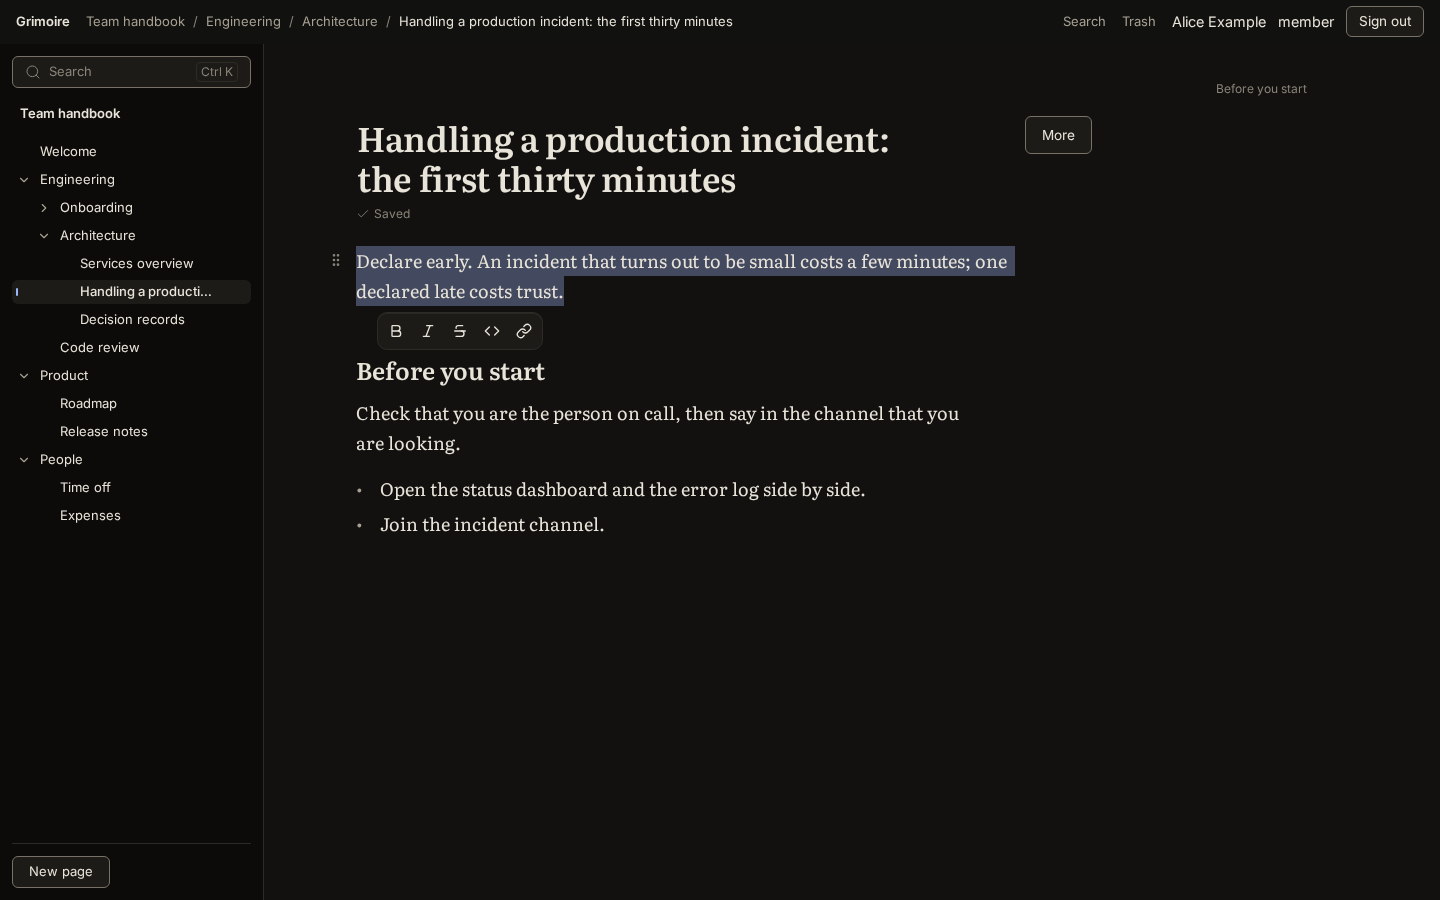
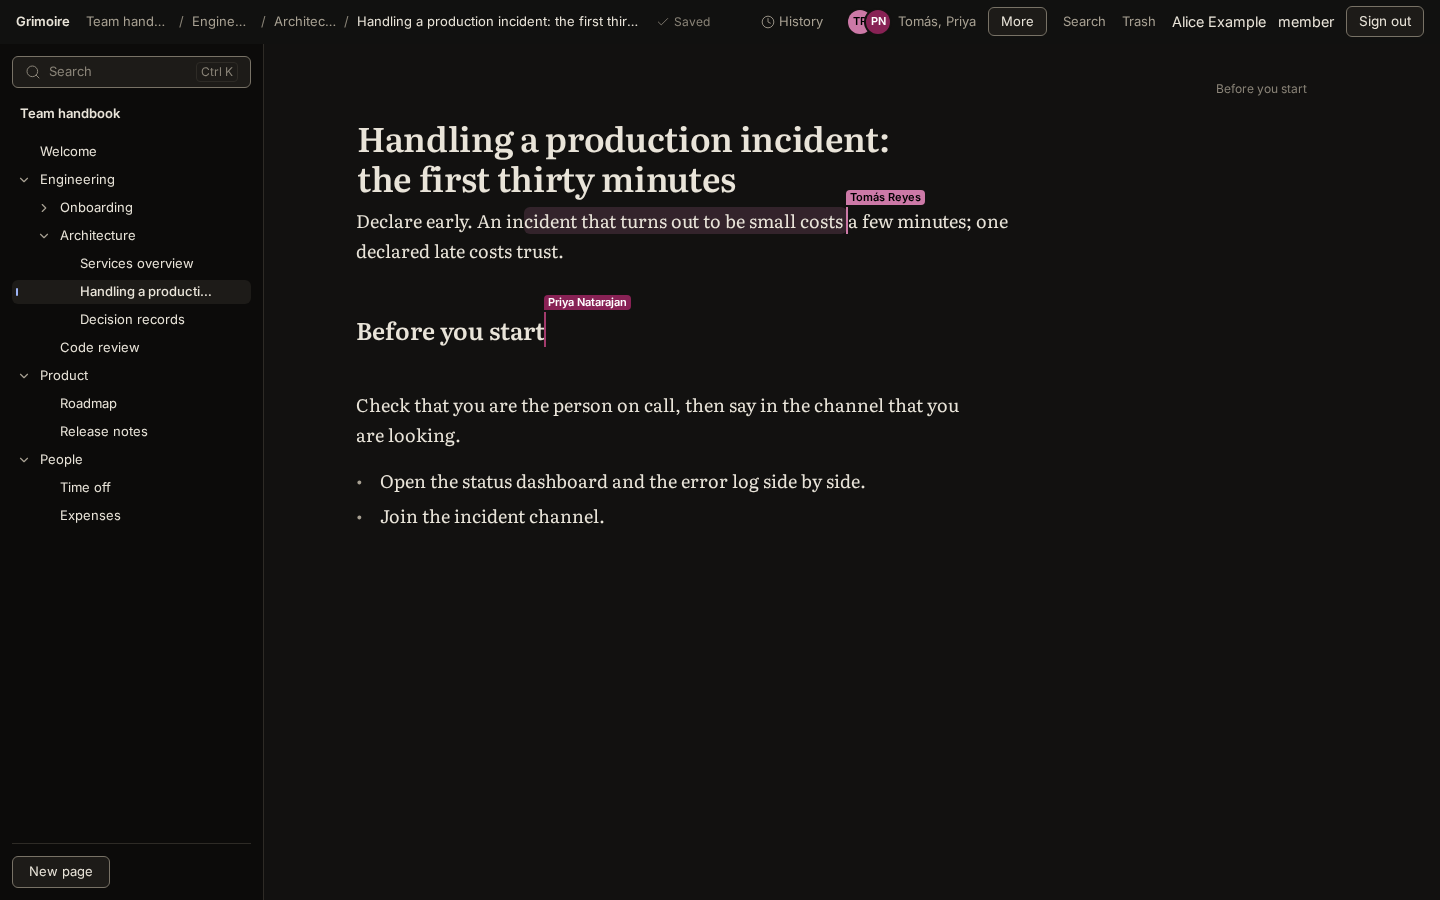
feat(web): page controls in the top bar: save status, presence, History, page menu
A slot in the shell header takes the open page's controls (portal; the page keeps them inline where there is no bar, and the save status keeps its own line on phones). The top bar's a11y status read scopes to .page-status now that presence adds a second status region; the only other role=status locator is on the history screen, which has no presence. Screenshots re-taken with two collaborators.

diff --git a/apps/web/src/app/Shell.tsx b/apps/web/src/app/Shell.tsx
@@ -1,24 +1,29 @@
-import { useEffect, useState } from 'react';
-import { Ellipsis, PanelLeft } from 'lucide-react';
-import { Link, Outlet, useLocation } from 'react-router';
-import { UserBadge } from '../auth/UserBadge';
-import { AdminLink } from './AdminLink';
-import { Breadcrumb } from './Breadcrumb';
-import { Palette } from '../palette/Palette';
-import { useSession } from '../auth/session';
-import { ContentsPanel } from '../tree/ContentsPanel';
-import { inPageHref } from '../ui/inpage';
-import { ErrorBoundary } from './ErrorBoundary';
-import { screenKey } from './routes';
+import { useEffect, useState } from "react";
+import { Ellipsis, PanelLeft } from "lucide-react";
+import { Link, Outlet, useLocation } from "react-router";
+import { UserBadge } from "../auth/UserBadge";
+import { AdminLink } from "./AdminLink";
+import { Breadcrumb } from "./Breadcrumb";
+import { PageControlsProvider, PageControlsSlot } from "./page-controls";
+import { Palette } from "../palette/Palette";
+import { useSession } from "../auth/session";
+import { ContentsPanel } from "../tree/ContentsPanel";
+import { inPageHref } from "../ui/inpage";
+import { ErrorBoundary } from "./ErrorBoundary";
+import { screenKey } from "./routes";
 
 /** True once the page has scrolled: the top bar then gets its hairline. */
 function useScrolled(): boolean {
   const [scrolled, setScrolled] = useState(false);
   useEffect(() => {
-    const update = (): void => { setScrolled(window.scrollY > 0); };
+    const update = (): void => {
+      setScrolled(window.scrollY > 0);
+    };
     update();
-    window.addEventListener('scroll', update, { passive: true });
-    return () => { window.removeEventListener('scroll', update); };
+    window.addEventListener("scroll", update, { passive: true });
+    return () => {
+      window.removeEventListener("scroll", update);
+    };
   }, []);
   return scrolled;
 }
@@ -31,40 +36,82 @@ export function Shell() {
   // On a phone the contents are behind a button; a new screen closes them.
   const [contentsOpen, setContentsOpen] = useState(false);
   const [actionsOpen, setActionsOpen] = useState(false);
-  useEffect(() => { setContentsOpen(false); setActionsOpen(false); }, [pathname]);
+  useEffect(() => {
+    setContentsOpen(false);
+    setActionsOpen(false);
+  }, [pathname]);
   return (
-    <div className="shell">
-      <a className="skip-link" href={inPageHref(pathname, search, 'main')}>
-        Skip to the page
-      </a>
-      <header className="shell-header" data-scrolled={scrolled || undefined}>
-        <button type="button" className="shell-contents-toggle" aria-controls="shell-contents" aria-expanded={contentsOpen} aria-label={contentsOpen ? 'Hide contents' : 'Show contents'} title={contentsOpen ? 'Hide contents' : 'Show contents'} onClick={() => { setContentsOpen((open) => !open); }}>
-          <PanelLeft aria-hidden size={16} strokeWidth={1.5} />
-        </button>
-        <Link to="/" className="shell-brand">Grimoire</Link>
-        <Breadcrumb />
-        <button type="button" className="shell-actions-toggle" aria-controls="shell-actions" aria-expanded={actionsOpen} aria-label={actionsOpen ? 'Hide menu' : 'Show menu'} title={actionsOpen ? 'Hide menu' : 'Show menu'} onClick={() => { setActionsOpen((open) => !open); }}>
-          <Ellipsis aria-hidden size={16} strokeWidth={1.5} />
-        </button>
-        {/* On a phone these sit behind the button above: one compact bar, and the breadcrumb under it. */}
-        <div className="shell-actions" id="shell-actions" data-open={actionsOpen || undefined}>
-          <nav aria-label="Main">
-            <Link to="/search">Search</Link> <Link to="/trash">Trash</Link> <AdminLink />
-          </nav>
-          <UserBadge />
+    <PageControlsProvider>
+      <div className="shell">
+        <a className="skip-link" href={inPageHref(pathname, search, "main")}>
+          Skip to the page
+        </a>
+        <header className="shell-header" data-scrolled={scrolled || undefined}>
+          <button
+            type="button"
+            className="shell-contents-toggle"
+            aria-controls="shell-contents"
+            aria-expanded={contentsOpen}
+            aria-label={contentsOpen ? "Hide contents" : "Show contents"}
+            title={contentsOpen ? "Hide contents" : "Show contents"}
+            onClick={() => {
+              setContentsOpen((open) => !open);
+            }}
+          >
+            <PanelLeft aria-hidden size={16} strokeWidth={1.5} />
+          </button>
+          <Link to="/" className="shell-brand">
+            Grimoire
+          </Link>
+          <Breadcrumb />
+          <PageControlsSlot />
+          <button
+            type="button"
+            className="shell-actions-toggle"
+            aria-controls="shell-actions"
+            aria-expanded={actionsOpen}
+            aria-label={actionsOpen ? "Hide menu" : "Show menu"}
+            title={actionsOpen ? "Hide menu" : "Show menu"}
+            onClick={() => {
+              setActionsOpen((open) => !open);
+            }}
+          >
+            <Ellipsis aria-hidden size={16} strokeWidth={1.5} />
+          </button>
+          {/* On a phone these sit behind the button above: one compact bar, and the breadcrumb under it. */}
+          <div
+            className="shell-actions"
+            id="shell-actions"
+            data-open={actionsOpen || undefined}
+          >
+            <nav aria-label="Main">
+              <Link to="/search">Search</Link> <Link to="/trash">Trash</Link>{" "}
+              <AdminLink />
+            </nav>
+            <UserBadge />
+          </div>
+        </header>
+        <Palette />
+        <div className="shell-body">
+          <aside
+            className="shell-contents"
+            id="shell-contents"
+            aria-label="Contents"
+            data-open={contentsOpen || undefined}
+          >
+            {session === null ? (
+              <p>Contents</p>
+            ) : (
+              <ContentsPanel api={session.api} />
+            )}
+          </aside>
+          <main className="shell-main" id="main" tabIndex={-1}>
+            <ErrorBoundary key={screenKey(pathname)}>
+              <Outlet />
+            </ErrorBoundary>
+          </main>
         </div>
-      </header>
-      <Palette />
-      <div className="shell-body">
-        <aside className="shell-contents" id="shell-contents" aria-label="Contents" data-open={contentsOpen || undefined}>
-          {session === null ? <p>Contents</p> : <ContentsPanel api={session.api} />}
-        </aside>
-        <main className="shell-main" id="main" tabIndex={-1}>
-          <ErrorBoundary key={screenKey(pathname)}>
-            <Outlet />
-          </ErrorBoundary>
-        </main>
       </div>
-    </div>
+    </PageControlsProvider>
   );
 }

diff --git a/apps/web/src/screens/page/PageView.tsx b/apps/web/src/screens/page/PageView.tsx
@@ -1,6 +1,8 @@
 import { useContext, useEffect, useRef, useState } from 'react';
 import { UNSAFE_DataRouterContext, useLocation, useNavigate } from 'react-router';
 import { urlIdOf } from '../../app/routes';
+import { InBar, useBarRoom } from '../../app/page-controls';
+import { Clock } from 'lucide-react';
 import { pagePath } from '../../tree/model';
 import { ConnectionManager, type ConnectionState } from '../../editor/core/connection';
 import type { MountedEditor } from '../../editor/core/mount';
@@ -70,6 +72,7 @@ export function PageView({ page, engine = realEngine, onReplaced }: { page: Page
   const moreRef = useRef<HTMLButtonElement>(null);
   const meRef = useRef<string | null>(null);
   meRef.current = me.data?.id ?? null;
+  const barRoom = useBarRoom();
   const presence = usePresence(presenceSource, me.data?.id ?? null);
   const permissionRef = useRef(permissionReadOnly);
   permissionRef.current = permissionReadOnly;
@@ -269,16 +272,32 @@ export function PageView({ page, engine = realEngine, onReplaced }: { page: Page
   // The server says the page is not there any more (removed while it was open): the not-found screen, with the editor out of sight and nothing more sent.
   if (state.stopped === 'not-found') return <PageNotFound />;
 
+  const status = <StatusLine state={{ ...state, readOnly }} collab={collab} onRetry={() => managerRef.current?.retry()} />;
+
   return (
     <div className="page-layout">
       <article className="page">
+        {/* First, so that in the top bar the status comes before presence and the menus. */}
+        <InBar barOnly show={barRoom}>
+          {status}
+        </InBar>
         <header className="page-head">
           <PageTitle title={page.title} editable={!readOnly && session !== null} startEditing={newPageRef.current} onSave={saveTitle} />
           {readOnly ? <span className="page-readonly">Read only</span> : null}
-          <PresenceStack people={presence.people} onJump={(id) => jumpTo(rootRef.current, id)} />
-          <PageMenu triggerRef={moreRef} onHistory={() => navigate(`${pagePath(page.title, page.urlId)}/history`)} onReset={me.data?.role === 'admin' && session !== null ? () => setResetOpen(true) : undefined} />
+          <InBar>
+            <PresenceStack people={presence.people} onJump={(id) => jumpTo(rootRef.current, id)} />
+            <InBar barOnly show={barRoom}>
+              <button type="button" className="page-history" onClick={() => navigate(`${pagePath(page.title, page.urlId)}/history`)}>
+                <Clock aria-hidden size={14} strokeWidth={1.5} />
+                History
+              </button>
+            </InBar>
+            <PageMenu triggerRef={moreRef} onHistory={() => navigate(`${pagePath(page.title, page.urlId)}/history`)} onReset={me.data?.role === 'admin' && session !== null ? () => setResetOpen(true) : undefined} />
+          </InBar>
         </header>
-        <StatusLine state={{ ...state, readOnly }} collab={collab} onRetry={() => managerRef.current?.retry()} />
+        <InBar fallbackOnly show={barRoom}>
+          {status}
+        </InBar>
         {presenceSource !== null ? <PresenceAnnouncer text={presence.announcement} /> : null}
         {state.copy !== null ? <ResetNotice key={state.copy} copy={state.copy} title={page.title} onDismiss={() => managerRef.current?.dismissCopy()} /> : null}
         {state.banner !== null ? <p className="page-banner">{state.banner}</p> : null}

diff --git a/apps/web/test/app/page-controls.test.tsx b/apps/web/test/app/page-controls.test.tsx
@@ -1,0 +1,52 @@
+import { cleanup, render, screen } from '@testing-library/react';
+import { afterEach, describe, expect, it } from 'vitest';
+import { InBar, PageControlsProvider, PageControlsSlot } from '../../src/app/page-controls';
+import '../support/dom';
+
+afterEach(cleanup);
+
+const bar = (): HTMLElement => document.querySelector('.shell-page-controls')!;
+
+describe('the top bar slot for a page`s controls', () => {
+  it('puts a control in the bar when there is one and it has room, and in the page when it has not', () => {
+    const view = render(
+      <PageControlsProvider>
+        <PageControlsSlot />
+        <main data-testid="page">
+          <InBar show><button>Menu</button></InBar>
+          <InBar show={false}><button>Status</button></InBar>
+        </main>
+      </PageControlsProvider>,
+    );
+    expect(bar().contains(screen.getByRole('button', { name: 'Menu' }))).toBe(true);
+    expect(screen.getByTestId('page').contains(screen.getByRole('button', { name: 'Status' }))).toBe(true);
+    view.unmount();
+  });
+
+  it('keeps a bar-only control out of the page, and a fallback-only one out of the bar', () => {
+    render(
+      <PageControlsProvider>
+        <PageControlsSlot />
+        <main data-testid="page">
+          <InBar barOnly show={false}><button>History</button></InBar>
+          <InBar fallbackOnly show><button>Inline status</button></InBar>
+          <InBar fallbackOnly show={false}><button>Phone status</button></InBar>
+        </main>
+      </PageControlsProvider>,
+    );
+    expect(screen.queryByRole('button', { name: 'History' })).toBeNull();
+    expect(screen.queryByRole('button', { name: 'Inline status' })).toBeNull();
+    expect(screen.getByTestId('page').contains(screen.getByRole('button', { name: 'Phone status' }))).toBe(true);
+  });
+
+  it('without a bar everything stays where the page put it, except what only the bar shows', () => {
+    render(
+      <main data-testid="page">
+        <InBar><button>Menu</button></InBar>
+        <InBar barOnly><button>History</button></InBar>
+      </main>,
+    );
+    expect(screen.getByTestId('page').contains(screen.getByRole('button', { name: 'Menu' }))).toBe(true);
+    expect(screen.queryByRole('button', { name: 'History' })).toBeNull();
+  });
+});

diff --git a/apps/web/src/app/page-controls.tsx b/apps/web/src/app/page-controls.tsx
@@ -1,0 +1,41 @@
+import { createContext, useContext, useEffect, useState, type ReactNode } from 'react';
+import { createPortal } from 'react-dom';
+
+/** The top bar's room for the open page's own controls (save status, presence, History, page menu). Null where there is no bar (a page mounted alone): they then stay where the page puts them. */
+const SlotContext = createContext<{ slot: HTMLElement | null; set: (el: HTMLElement | null) => void }>({ slot: null, set: () => undefined });
+
+const BAR = '(min-width: 40.0625rem)';
+
+export function PageControlsProvider({ children }: { children: ReactNode }) {
+  const [slot, set] = useState<HTMLElement | null>(null);
+  return <SlotContext.Provider value={{ slot, set }}>{children}</SlotContext.Provider>;
+}
+
+/** Where the controls land in the top bar. `display: contents`, so they are its flex items. */
+export function PageControlsSlot() {
+  const { set } = useContext(SlotContext);
+  return <div className="shell-page-controls" ref={set} />;
+}
+
+/** True from 641px up, where the whole set sits in the bar; on a phone only presence and the menu do, the save status keeps its own line under the title. */
+export function useBarRoom(): boolean {
+  const [room, setRoom] = useState(() => window.matchMedia(BAR).matches);
+  useEffect(() => {
+    const query = window.matchMedia(BAR);
+    const update = (): void => { setRoom(query.matches); };
+    query.addEventListener('change', update);
+    return () => { query.removeEventListener('change', update); };
+  }, []);
+  return room;
+}
+
+/**
+ * Puts `children` in the top bar when there is one (and `show` holds), else right here. `barOnly` renders nothing where it would not go in the bar; `fallbackOnly` is
+ * its twin, rendering only where `barOnly` would not: a control that has two places, the bar and the page.
+ */
+export function InBar({ children, show = true, barOnly = false, fallbackOnly = false }: { children: ReactNode; show?: boolean; barOnly?: boolean; fallbackOnly?: boolean }) {
+  const { slot } = useContext(SlotContext);
+  const inBar = slot !== null && show;
+  if (inBar) return fallbackOnly ? null : createPortal(children, slot);
+  return barOnly ? null : <>{children}</>;
+}

diff --git a/apps/web/src/ui/global.css b/apps/web/src/ui/global.css
@@ -24,11 +24,18 @@ a { color: var(--accent); text-underline-offset: 0.15em; }
 .shell-header a { text-decoration: none; color: var(--ink-2); }
 .shell-header a:hover { color: var(--ink); }
 .shell-actions { display: contents; }
+/* The open page's own controls: the save status after the breadcrumb, then presence, History and the page menu at the end of the slot. */
+.shell-actions > * { flex: none; white-space: nowrap; }
+.shell-page-controls { display: flex; flex: 1 0 auto; align-items: center; gap: var(--space-3); }
+.shell-page-controls .page-status { margin: 0; min-height: 0; }
+.shell-page-controls > button { padding: var(--space-1) var(--space-3); font-size: 0.8125rem; }
+.shell-page-controls .page-history { display: inline-flex; align-items: center; gap: var(--space-1); border-color: transparent; background: transparent; color: var(--ink-2); }
+.shell-page-controls .page-history:hover { color: var(--ink); }
 .shell-actions-toggle { display: none; margin-inline-start: auto; padding: var(--space-1) var(--space-2); border-color: transparent; background: transparent; }
 .shell-contents-toggle { display: none; padding: var(--space-1) var(--space-2); border-color: transparent; background: transparent; }
 .shell-header .shell-brand { font-weight: 600; color: var(--ink); }
 .shell-header nav { display: flex; gap: var(--space-4); }
-.shell-header .breadcrumb { flex: 1; min-width: 0; font-feature-settings: 'case'; }
+.shell-header .breadcrumb { flex: 0 1 auto; min-width: 0; font-feature-settings: 'case'; }
 .breadcrumb ol { display: flex; min-width: 0; margin: 0; padding: 0; list-style: none; white-space: nowrap; }
 /* Every item can shrink, and its name is cut with an ellipsis (the full name is its tooltip); the separator never shrinks. */
 .breadcrumb li { display: flex; flex: 0 1 auto; min-width: 0; }

diff --git a/apps/web/src/presence/presence.css b/apps/web/src/presence/presence.css
@@ -9,13 +9,9 @@
   font-size: 0.8125rem;
   color: var(--ink-2);
 }
-/* In the page head the stack goes to the end of the row, the page menu right after it. */
-.page-head > .presence {
-  align-self: center;
+/* In the top bar the stack goes to the end of the slot, History and the page menu right after it. */
+.shell-page-controls > .presence {
   margin-inline-start: auto;
-}
-.page-head > .presence + button {
-  margin-inline-start: 0;
 }
 .presence-discs {
   display: flex;

diff --git a/apps/web/src/screens/page/page.css b/apps/web/src/screens/page/page.css
@@ -72,10 +72,6 @@
 .page-margin:empty {
   display: none;
 }
-.page-head > button {
-  margin-inline-start: auto;
-  font-size: 0.85rem;
-}
 .page-reset {
   margin: 0 0 var(--space-4);
   padding: var(--space-3) var(--space-4);
